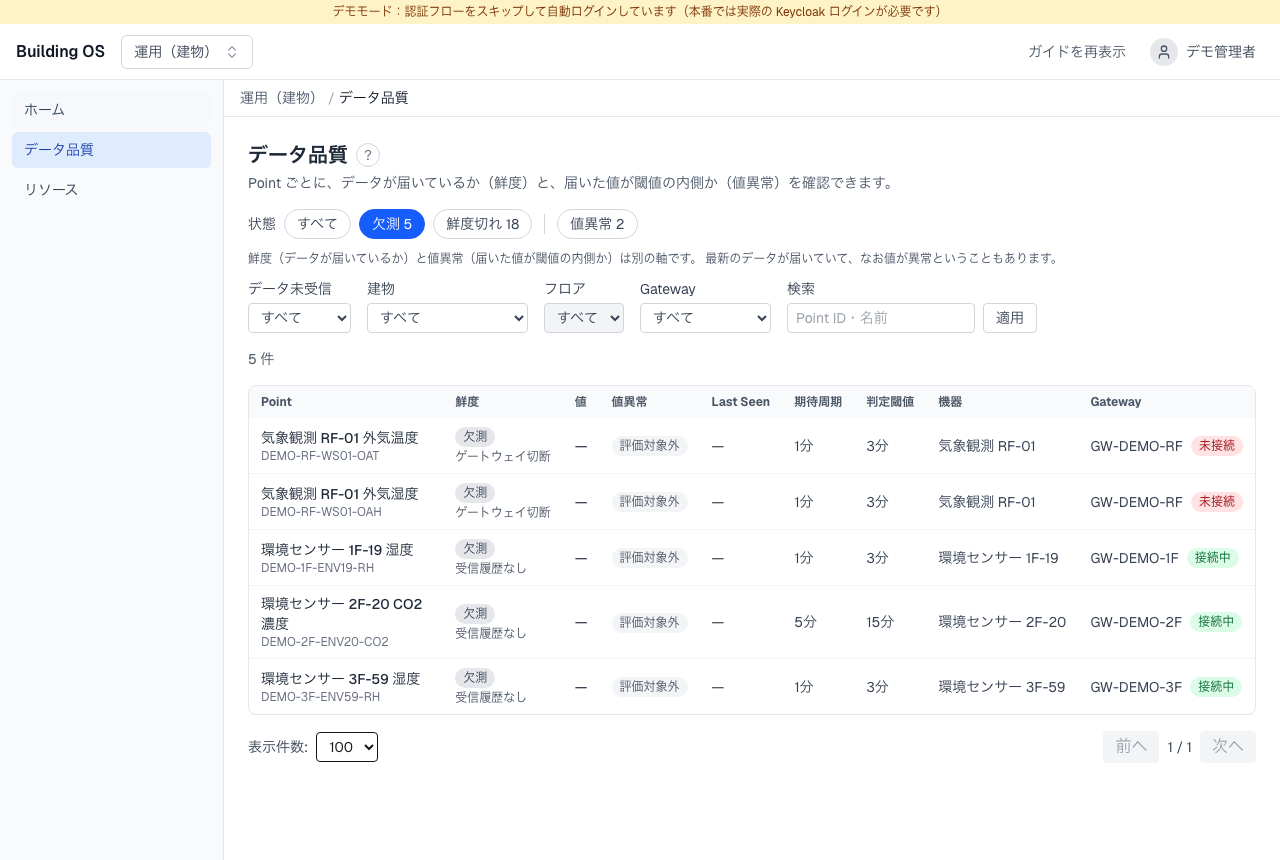
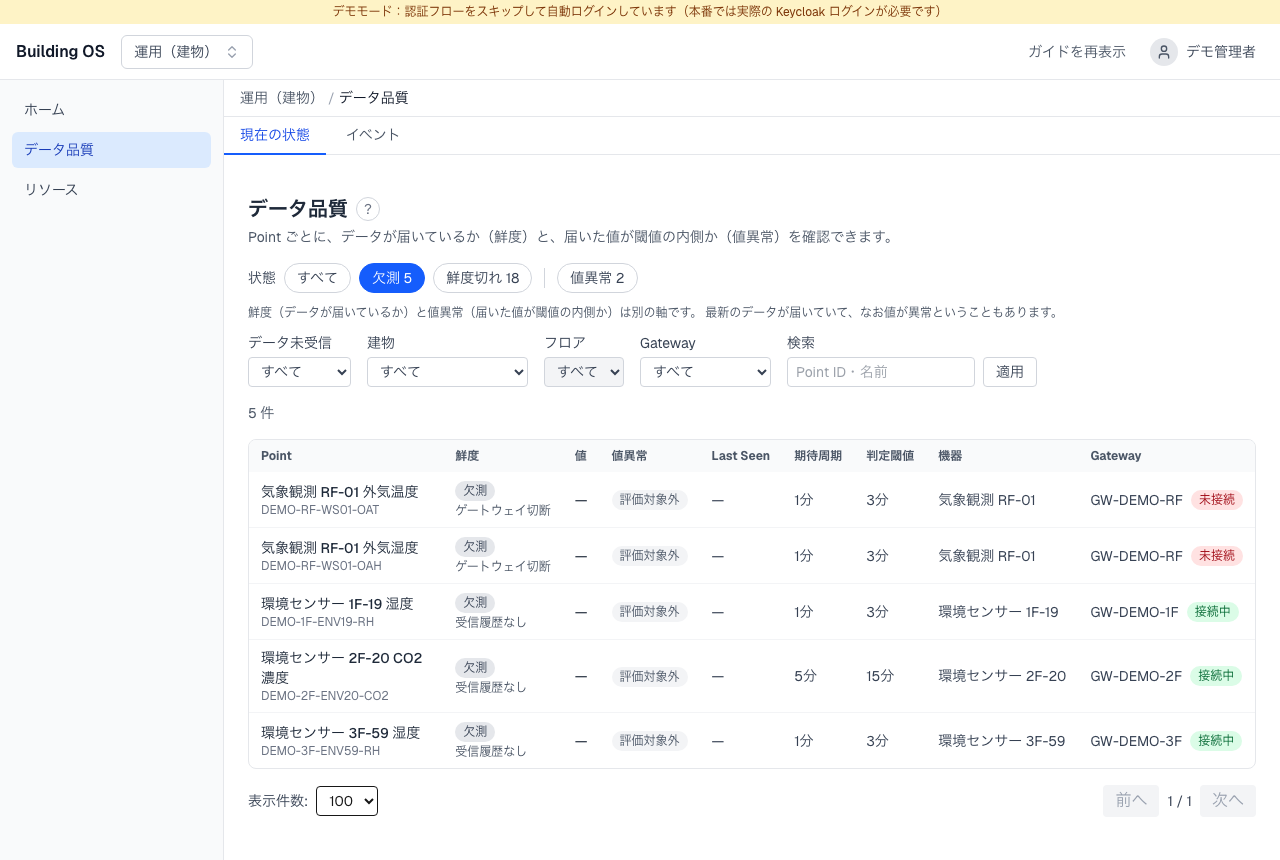
wip: ヘルスイベントのデモ撮影を追加し、台本のスクリーンショットを更新する (#455)

diff --git a/web-client/e2e/capture-demo-walkthrough.spec.ts b/web-client/e2e/capture-demo-walkthrough.spec.ts
@@ -32,6 +32,17 @@ async function shot(page: Page, name: string, fullPage = false): Promise<void> {
   });
 }
 
+// The app shell scrolls inside its own container, so Playwright's `fullPage` cannot see below the
+// viewport. For the screens that are taller than one viewport, grow the viewport instead, wait for the
+// late-arriving panels (the 24 h coverage bar), and put it back.
+async function tallShot(page: Page, name: string): Promise<void> {
+  const original = page.viewportSize() ?? { width: 1280, height: 860 };
+  await page.setViewportSize({ width: original.width, height: 1500 });
+  await page.waitForTimeout(2_000);
+  await shot(page, name);
+  await page.setViewportSize(original);
+}
+
 test("capture: demo walkthrough", async ({ page }) => {
   await loginWithKeycloak(page);
 
@@ -70,7 +81,7 @@ test("capture: demo walkthrough", async ({ page }) => {
     "ゲートウェイ切断",
     { timeout: 30_000 },
   );
-  await shot(page, "3-point-missing", true);
+  await tallShot(page, "3-point-missing");
 
   // 4. Point 詳細 — stale の Point（interval × multiplier の判定根拠）
   await page.goto("/health?freshness=stale");
@@ -78,7 +89,7 @@ test("capture: demo walkthrough", async ({ page }) => {
   await shot(page, "4-health-stale");
   await page.getByTestId("health-table").locator("tbody a").first().click();
   await page.getByTestId("point-health-panel").waitFor({ timeout: 30_000 });
-  await shot(page, "5-point-stale", true);
+  await tallShot(page, "5-point-stale");
 
   // 5. /resources — タグ検索（critical）
   await page.goto("/resources");
@@ -88,8 +99,46 @@ test("capture: demo walkthrough", async ({ page }) => {
   await page.waitForTimeout(1_500);
   await shot(page, "6-resources-tag");
 
+  // 6b. /resources — Point の facet（機器・計測・単位・Gateway と、鮮度・アラーム）(#454)
+  await page.goto("/resources");
+  await page.getByLabel("種別で絞り込み").selectOption("point");
+  await expect(page.getByTestId("facet-panel")).toBeVisible({ timeout: 30_000 });
+  await expect(page.getByTestId("facet-health-freshness")).toBeVisible({
+    timeout: 60_000,
+  });
+  await page.getByTestId("facet-freshness-stale").check();
+  await expect(
+    page.getByTestId("resource-search-box").locator("ul li button").first(),
+  ).toBeVisible({ timeout: 60_000 });
+  await page.waitForTimeout(1_500);
+  await shot(page, "10-resources-facets");
+
+  // 6c. /health?view=events — 永続ヘルスイベント（#455）。評価器が連続スキャンで条件を確認してから
+  // 発生させるので、最初の行が出るまで待つ。
+  await page.goto("/health?view=events");
+  await expect(page.getByTestId("events-table")).toBeVisible({ timeout: 240_000 });
+  // gateway 切断は配下の欠測を 1 件に集約したイベントになる。1 件確認応答して「確認済み」の行も写す。
+  const gatewayRow = page
+    .locator("tr", { has: page.getByTestId("event-kind").filter({ hasText: "Gateway 切断" }) })
+    .first();
+  await expect(gatewayRow).toBeVisible({ timeout: 60_000 });
+  // Re-runs find it already acknowledged (the first acknowledger stays), which is the state we want to show.
+  const ackButton = gatewayRow.getByTestId("event-ack-button");
+  if (await ackButton.count()) await ackButton.click();
+  await expect(gatewayRow.getByTestId("event-ack")).not.toHaveText("確認する");
+  await page.waitForTimeout(500);
+  await tallShot(page, "8-health-events");
+
+  // 6d. 値異常のイベントがある Point の詳細 — 「この Point の直近イベント」
+  await page.goto("/health?view=events&kind=alarm");
+  await page.getByTestId("events-table").waitFor({ timeout: 60_000 });
+  await page.getByTestId("events-table").locator("tbody a").first().click();
+  await page.getByTestId("point-health-events").waitFor({ timeout: 30_000 });
+  await expect(page.getByTestId("point-health-events")).toContainText("値異常");
+  await tallShot(page, "9-point-events");
+
   // 6. /platform/status — 流量
   await page.goto("/platform/status");
   await page.waitForLoadState("networkidle");
-  await shot(page, "7-platform-status", true);
+  await tallShot(page, "7-platform-status");
 });
